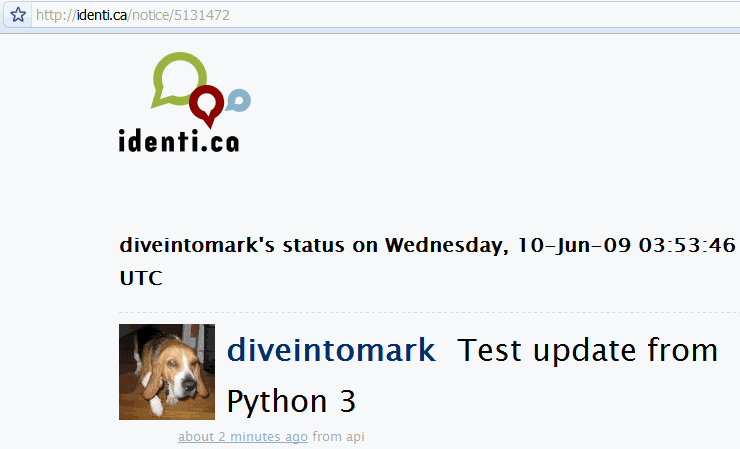
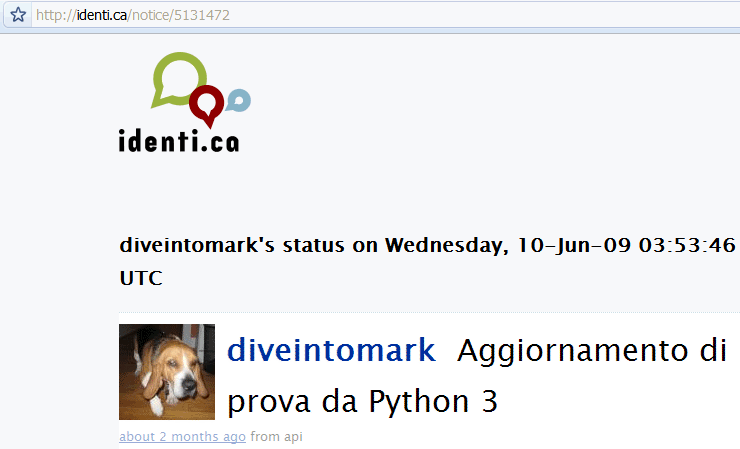
HTTP web services with screenshots.

diff --git a/servizi-web-http.html b/servizi-web-http.html
@@ -336,7 +336,7 @@ byte-compiling c:\python31\Lib\site-packages\httplib2\__init__.py to __init__.py
 running install_egg_info
 Writing c:\python31\Lib\site-packages\httplib2-python3_0.5.0-py3.1.egg-info</samp></pre>
 
-<p>Su Mac OS X, aprite l'applicazione <code>Terminal.app</code> che si trova nella vostra cartella <code>/Applications/Utilities/</code>. Su Linux, lanciate l'applicazione <code>Terminal</code>, che di solito si trova nel vostro menu <code>Applications</code> sotto la voce <code>Accessories</code> o <code>System</code>.
+<p>Su Mac OS X, aprite l'applicazione <code>Terminal.app</code> che si trova nella vostra cartella <code>/Applications/Utilities/</code>. Su Linux, lanciate l'applicazione <code>Terminale</code>, che di solito si trova nel vostro menu <code>Applicazioni</code> sotto la voce <code>Accessori</code> o <code>Strumenti di sistema</code>.
 
 <pre class=screen>
 <samp class=p>you@localhost:~/Desktop$ </samp><kbd><mark>unzip httplib2-python3-0.5.0.zip</mark></kbd>

diff --git a/index.html b/index.html
@@ -43,7 +43,7 @@ h1:before,h2:before{content:''}
 <li><a href=file.html>File</a>
 <li><a href=xml.html>XML</a>
 <li><a href=serializzare-oggetti-python.html>Serializzare oggetti Python</a>
-<li><a href=servizi-web-http.html>Servizi web HTTP</a> <span title="attenzione: traduzione in stato non ancora accettabile">&#x2718;</span>
+<li><a href=servizi-web-http.html>Servizi web HTTP</a>
 <li><a href=caso-di-studio-convertire-chardet-verso-python-3.html>Caso di studio: convertire <code>chardet</code> verso Python 3</a>
 <li><a href=distribuire-librerie-python.html>Distribuire librerie Python</a>
 <li id=a><a href=convertire-codice-verso-python-3-con-2to3.html>Convertire codice verso Python 3 con <code>2to3</code></a>
